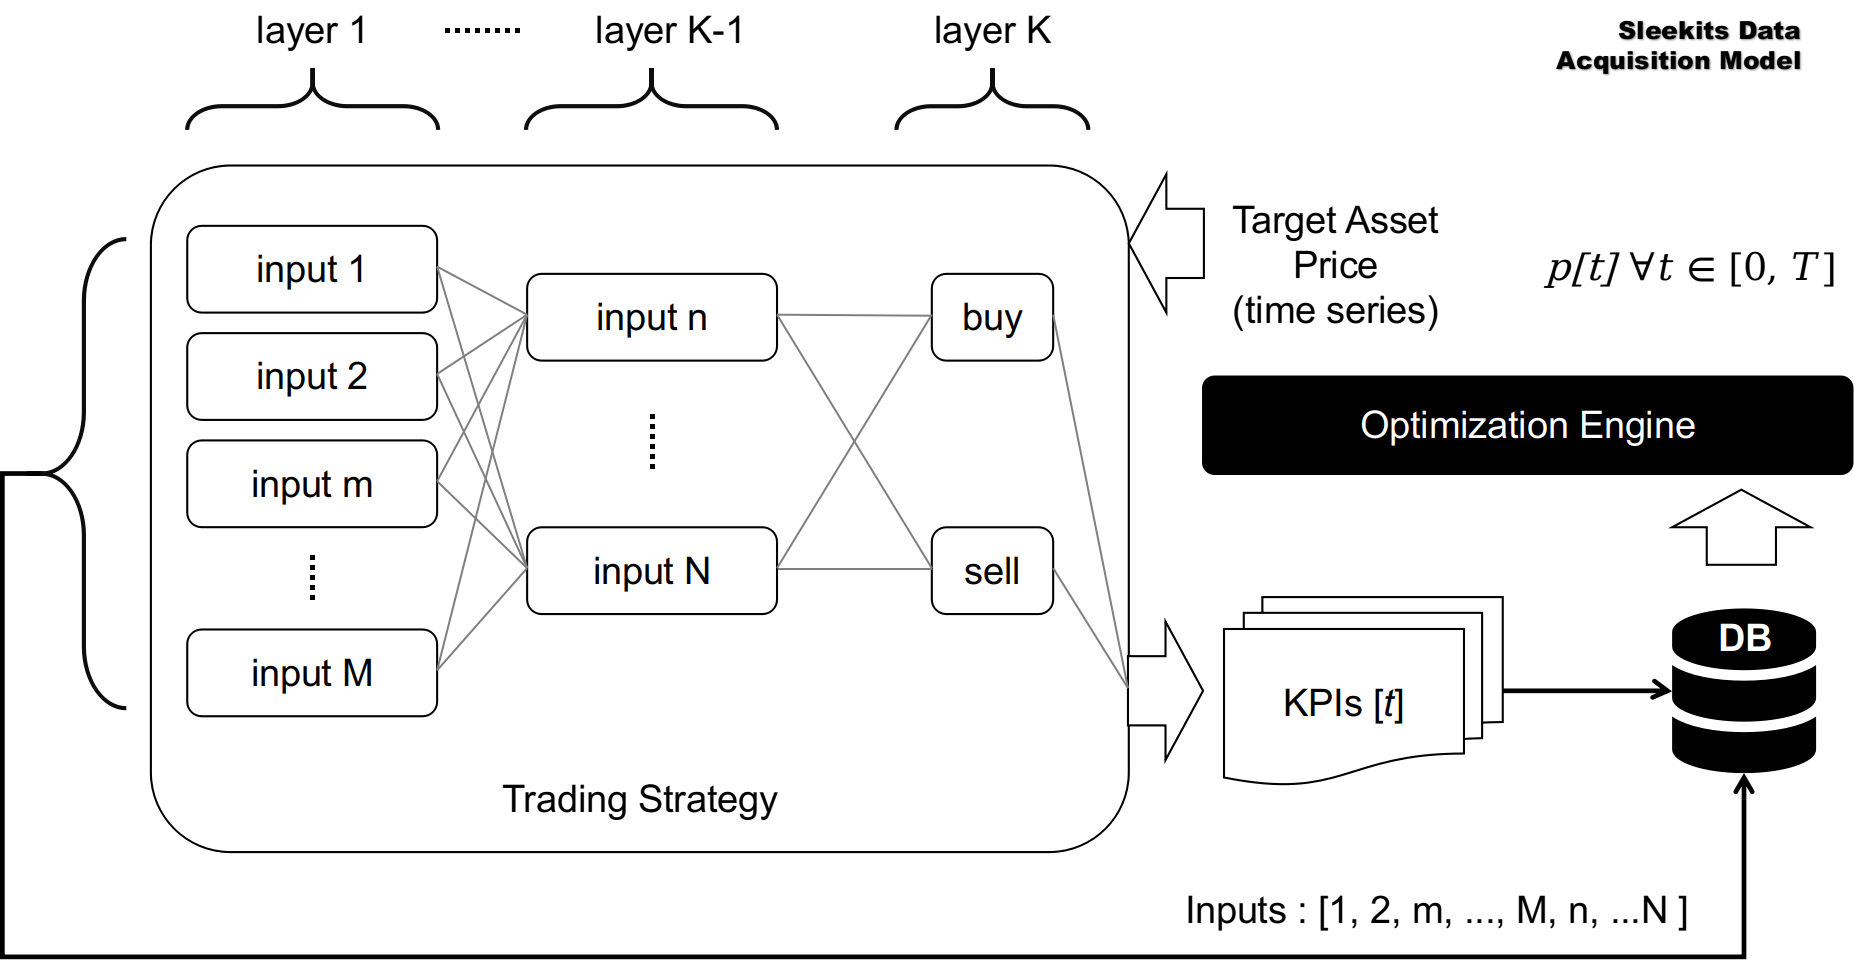
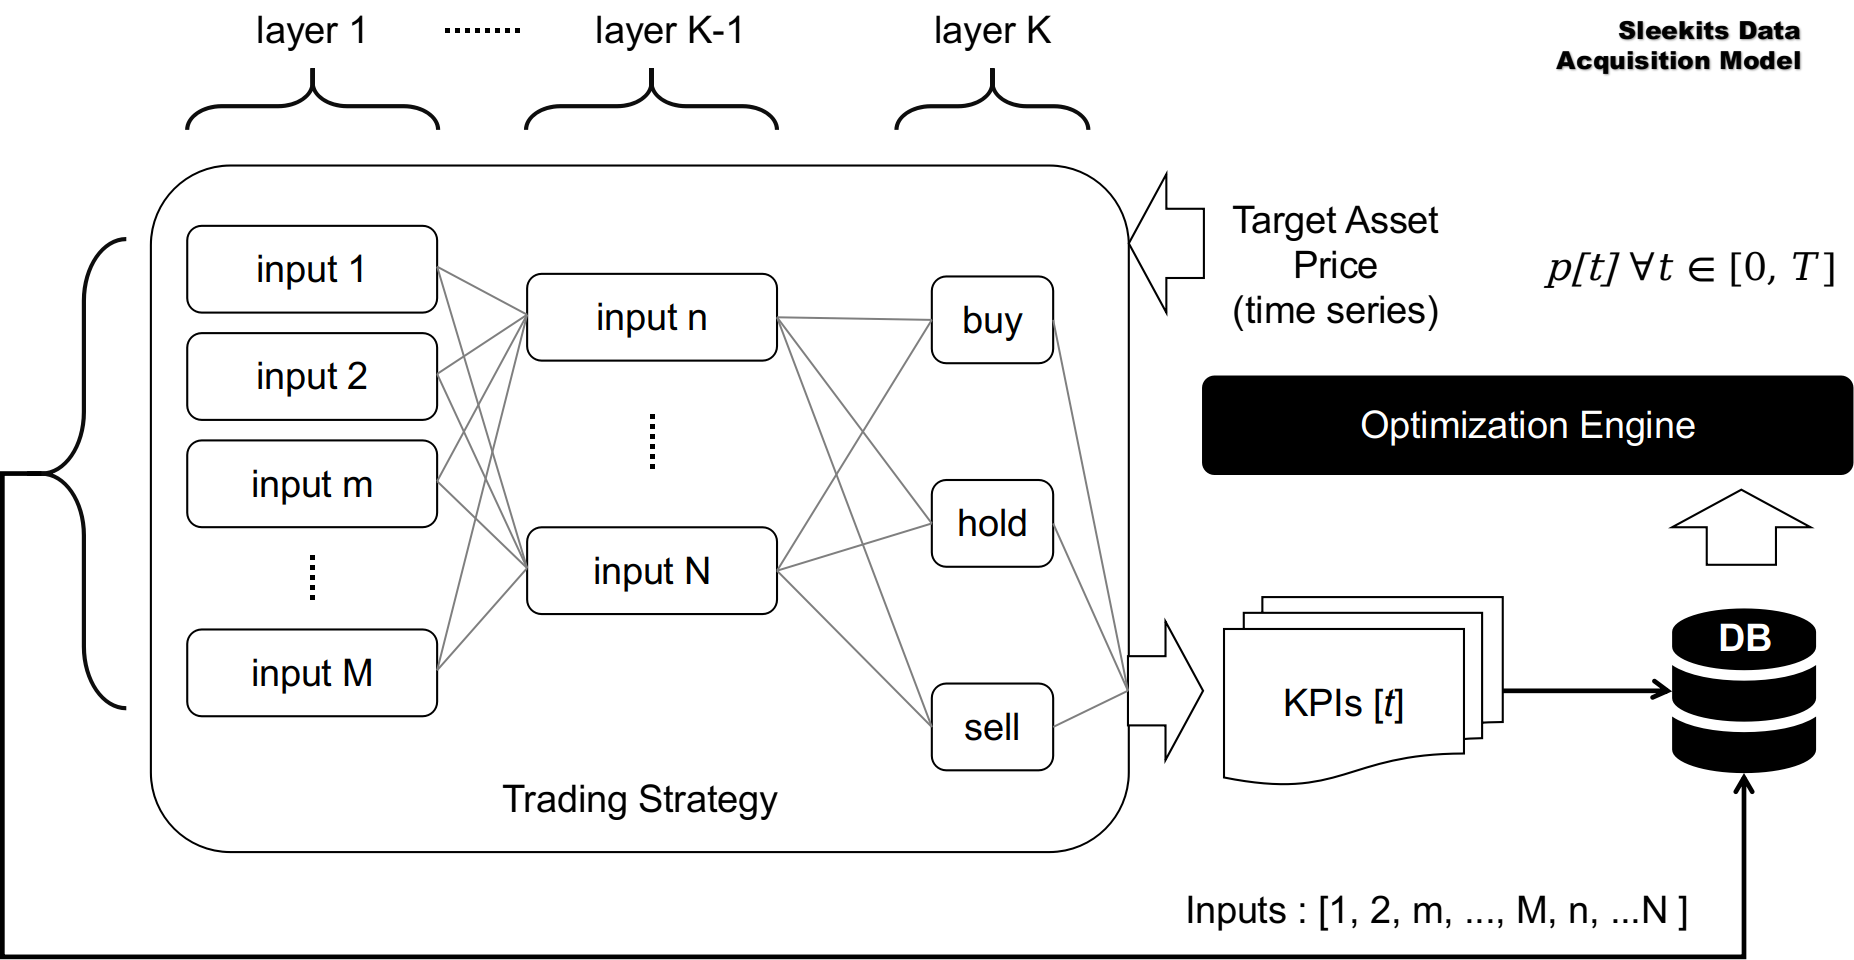
updates numerical optimization section

diff --git a/_posts/2021-04-11-trading-strategy-optimization.md b/_posts/2021-04-11-trading-strategy-optimization.md
@@ -14,6 +14,8 @@ excerpt: ''
 
 # Introduction
 
+By ECastaneda
+
 Ideas to develop:
 
 1. Algorithmic trading \(algo-trading\) is an automated system for executing market orders, based on pre-programmed trading commands or specifications
@@ -36,9 +38,9 @@ Ideas to develop:
 
 # Automated Trading Architecture
 
-The Sleekits team is developing a set of tools to automate tasks at each stage of a trading operation, as shown in the figure below.
-The first stage in our automation framework is given by the **Strategy Layer**, which defines the technical indicators that generate the buy-sell signals. This layer also includes the rules for capital and risk allocation, depending on the traded assest.
-The **Service Layer** is in charge of receiving the signals, executing the orders and managing the multiple accounts with brokers and exchanges. The last component of the architecture is the **Optimization Layer**, which includes automated tasks for generating, storing and analyzing the data produced by the implemented strategy. In this post we will focus on the latter layer, providing an overview of its main components and promising results for any trader.
+The Sleekits team is developing a set of tools to automate tasks at each stage of a trading operation. The figure below illustrates how such tools are interconnected as well as their components.
+The first stage in our automation framework is given by the **Strategy Layer**, which defines the technical indicators that generate the buy-sell signals. This layer also includes the rules for capital and risk allocation, depending on the traded assest and the expected operation period (hours, days, weeks).
+The **Service Layer** is in charge of receiving the signals, executing the orders and managing the multiple accounts with brokers and exchanges. The last component of the architecture is the **Optimization Layer**, which includes automated tasks for generating, storing and analyzing the data produced by the implemented strategy. In this post we will focus on the latter layer, providing an overview of both, its main components and promising results.
 
 <figure class="align-center">
   <img src="{{ site.url }}{{ site.baseurl }}/assets/images/strategy-optimization/sleekits-service-architecture.png" alt="">
@@ -50,24 +52,26 @@ The **Service Layer** is in charge of receiving the signals, executing the order
 
 ### Data Acquisition
 
-The raw material for Machine Learning is data, which is defined by the  key performance indicators (KPIs) produced by a trading strategy over a given period. Several trading platforms, such as [TradingView](https://www.tradingview.com/gopro/?share_your_love=sleekits), provide a set of [indicators](https://www.tradingview.com/support/solutions/43000561856-how-are-strategy-tester-report-values-calculated-and-what-do-they-mean/) to assess how effective your strategy performs in back testing using net profit, percent profitable, profit factor and the like. All these KPIs help us to quantify the strategy outcome over time for a particular asset. We can combine the inputs' value with the KPIs to produce a predictive ML model, assess the stability of the strategy and optimize the performance. The sleekits team has developed a Robotic Process Automation (RPA) Solution to perform the data acquisition model shown in the figure below. The RPA solution collects the inputs that define the strategy for a target asset (e.g. BTC, Tesla, etc) and the resulting KPIs from the strategy execution over a testing period. The data acquisiton solution can be configured to run automatically for a predefined number of times or until a stop criterion is reached.
+The raw material for Machine Learning is data, which is defined by the  key performance indicators (KPIs) produced by a trading strategy over a given period. Several trading platforms, such as [TradingView](https://www.tradingview.com/gopro/?share_your_love=sleekits), provide a set of [indicators](https://www.tradingview.com/support/solutions/43000561856-how-are-strategy-tester-report-values-calculated-and-what-do-they-mean/) to assess how effective your strategy performs in back testing using net profit, percent profitable, profit factor and the like. All these KPIs help us to quantify the strategy outcome over time for a particular asset. We can combine the inputs' value with the KPIs to produce a predictive ML model, assess the stability of the strategy and optimize the performance. The Sleekits team has developed a Robotic Process Automation (RPA) Solution to perform the data acquisition model shown in the figure below. The RPA solution collects the inputs that define the strategy for a target asset (e.g. BTC, Tesla, etc) and the resulting KPIs from the strategy execution over a testing period. The data acquisiton solution can be configured to run automatically for a predefined number of times or until a stop criterion is reached.
 
 <figure class="align-center">
   <img src="{{ site.url }}{{ site.baseurl }}/assets/images/strategy-optimization/sleekits-data-acquisition.png" alt="">
   <figcaption>Data Acquisition Model</figcaption>
 </figure> 
 
-The figure illustrates that a trading strategy can be thought as a collection of interconnected layers of inputs (floats, boolean, etc), which produce a set of outputs that quantify the performance (KPIs). These two sets of data can be stored and manipulated using data science tools to extract strategy insights.
+The figure shows how a trading strategy can be thought as a collection of interconnected layers of inputs (floats, boolean, etc), which produce a signal to sell, buy or hold the asset. Such signals generate a set of outputs that quantify the performance (KPIs). The inputs and KPIs are stored and manipulated using data science tools to extract strategy insights.
 
 
 ### ML Modeling
 
-The ML modeling performed over the data helps us to understand the relationship between the inputs and the KPIs.
+The ML modeling applied over the data helps us to understand the relationship between the inputs, the KPIs and the cost function under optimization.
 The model is constrained to the granularity of the data and the time frame it represents.
-Therefore, our methodology analyzes the quality of the model, the magnitude of the coefficients associated with each inputs and the overall stability.
+Therefore, our methodology analyzes the quality of the model, the magnitude of the coefficients associated with each input and the overall stability.
 
 An example of ML modeling for a momentum strategy for ETH is illustrted in the figure below, where the weighted profit factor (WPF) is defined as a function of the inputs. The coefficient of determination **R2** measures how well the real values fit the prediction of the model. 
-In our example, R2 ~ 88% of the WPF can be explained by a given set of inputs. It is worth noting that the ML model in this example contains more than 50 inputs, but the figure shows only the most important ones sorted by magnitude. The information that we require to initialize the optimization algorithms lies in the coefficients and their characteristics. The linear ML model reveals that an increment of one unit of *input-17* results in an increment about 300 units in the WPF. Similar analysis can done for the rest of the coefficients.
+In our example, R2 ~ 88% of the WPF can be explained by a given set of inputs. It is worth noting that the ML model in this example contains more than 50 inputs, but the figure shows only the most important ones sorted by magnitude. 
+
+The information that we require to initialize the optimization algorithms lies in the coefficients and their characteristics. For instance, the linear ML model reveals that an increment of one unit of *input-17* results in an increment about 300 units in the WPF. Similar analysis is done for the rest of the coefficients to determine the stability of the strategy, the implicit constraints each input imposes to the KPIs and the set of inputs or conditions that do not provide an edge to the strategy.
 
 <figure class="align-center">
   <img src="{{ site.url }}{{ site.baseurl }}/assets/images/strategy-optimization/sleekits-ml-coefficients.png" alt="">
@@ -77,20 +81,18 @@ In our example, R2 ~ 88% of the WPF can be explained by a given set of inputs. I
 
 ### Numerical Optimization
 
-In the  momentum strategy for ETH, our objective is to maximize the WPF subject to a set of constraints defined by the range of operation of each input. The RPA solution not only acquires the data but also provide a set of anchoring points in the inputs universe for which the WPF has a local maximum value. In the heat map below every point represents a (inputs, KPIs) tuple. Two KPIs are used to visualize the performance of each tuple, namely the profit factor and the percentage of profitability. Additionally, the figure shows the anchors used in the data acquisition stage which define the fastest optimization path to maximize the WPF.
+In the  momentum strategy for ETH in the example, our objective is to maximize the WPF subject to a set of constraints defined by the range of operation of each input. The RPA solution not only acquires the data but also provides a set of anchoring points in the inputs universe for which the WPF has a local maximum value. In the heat map below every point represents a tuple: (inputs, KPIs, WPF). In the figure, two KPIs are used to visualize the performance of each tuple, namely the profit factor and the percentage of profitability. Additionally, the figure shows the anchors used in the data acquisition stage which define the fastest optimization path to maximize the WPF.
 
 <figure class="align-center">
   <img src="{{ site.url }}{{ site.baseurl }}/assets/images/strategy-optimization/sleekits-search-optimization.png" alt="">
   <figcaption>Sleekits Search Optimization Approach</figcaption>
 </figure> 
 
-For some trading strategies the inner layer structures are too complex to converge to the global maximum using a ML Model based search approach. An optimization method inspired in genetic algorithms has been implemented to handle such kind of complex strategies.
-
-
+For some trading strategies the inner layer structures are too complex to converge to the global maximum using tools such as a linear ML Model. An optimization method inspired by the genetic algorithms has been implemented to handle such kind of complex strategies. The fundamental idea is to collect a represtative set of (inputs, KPIs, Cost Function) tuples. From this first generation of tuples the inputs that produce the best cost function values will be combine to create a new set of inputs. Such a new generation of inputs will have some KPIs and cost function values from which a new generation of inputs will be created. Such an iterative process provides insightful data about the strategies.
 
 # Case Study
 
-* @rvgomes: review Fancy Bollinger Bands by BigBitsIO
+In this section we present results of our optimization approach with three popular strategies. Each strategy targets a different asset type: crypto, currencies and stocks.
 
 ## Crypto Strategy
 
@@ -138,5 +140,6 @@ We have developed a strategy ...
 
 ## Follow up
 
-We recently rolled out a bunch of new features and UI changes, and we value speaking with as many new customers as possible to make sure we are on the right track.
+The Sleekits team is woking to launch an alpha service for testing and optimizing trading strategies.
+Currently we are only working with strategies developed in [TradingView](https://www.tradingview.com/gopro/?share_your_love=sleekits), so if you are a trader with curiosity and interest about improving your strategies please drop us a line to admin@sleekits.com.
 
